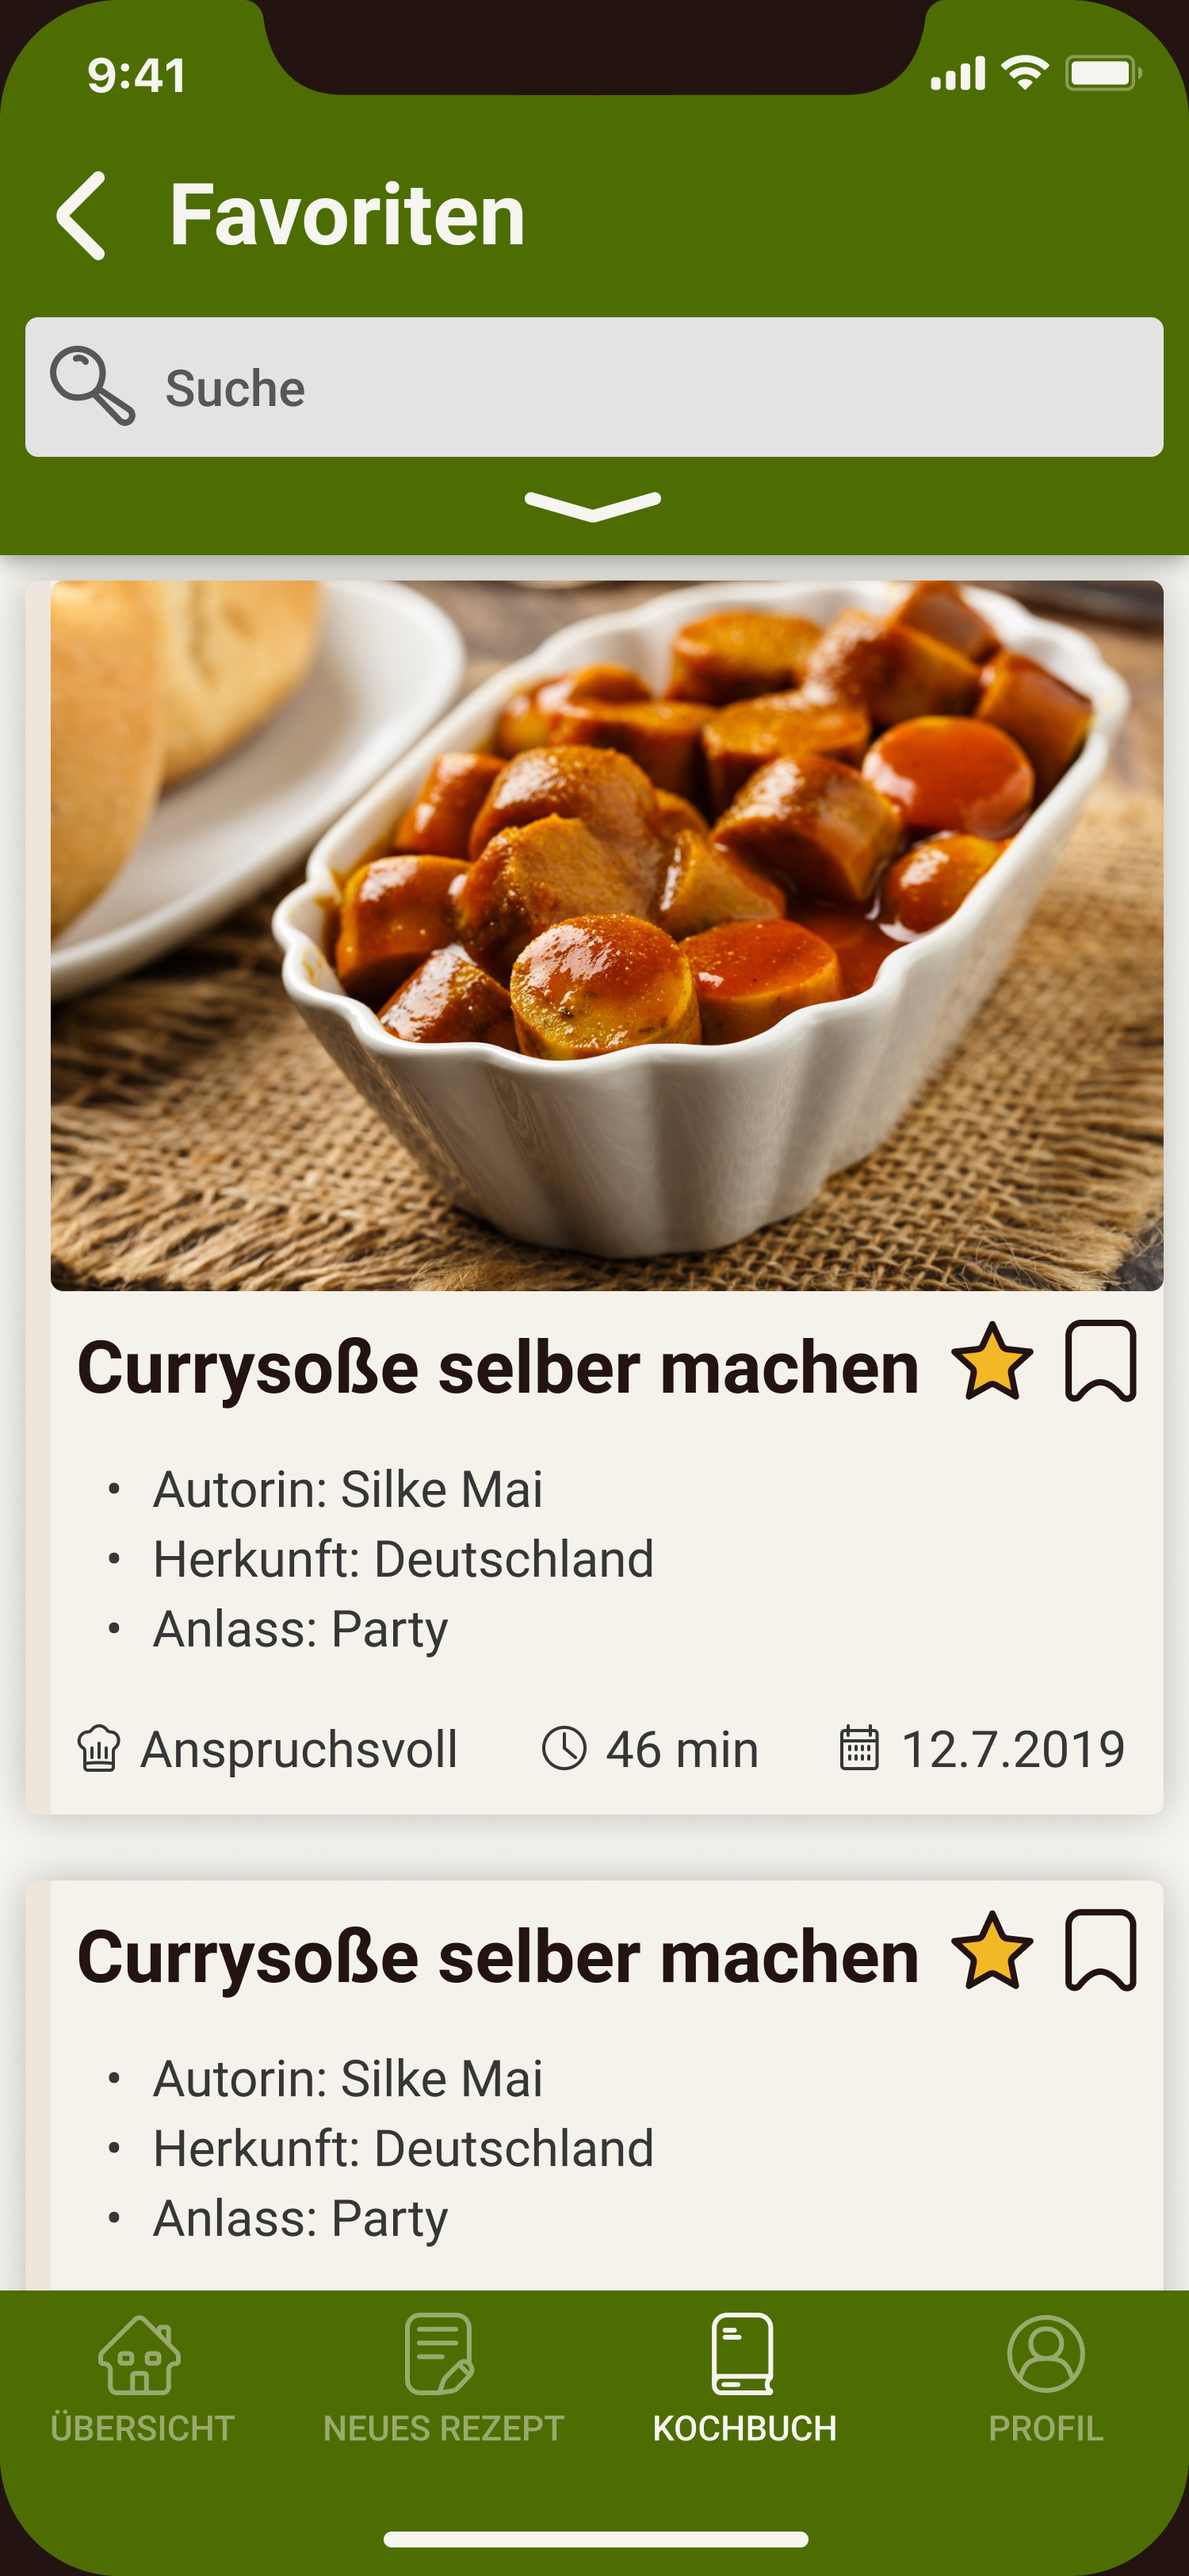
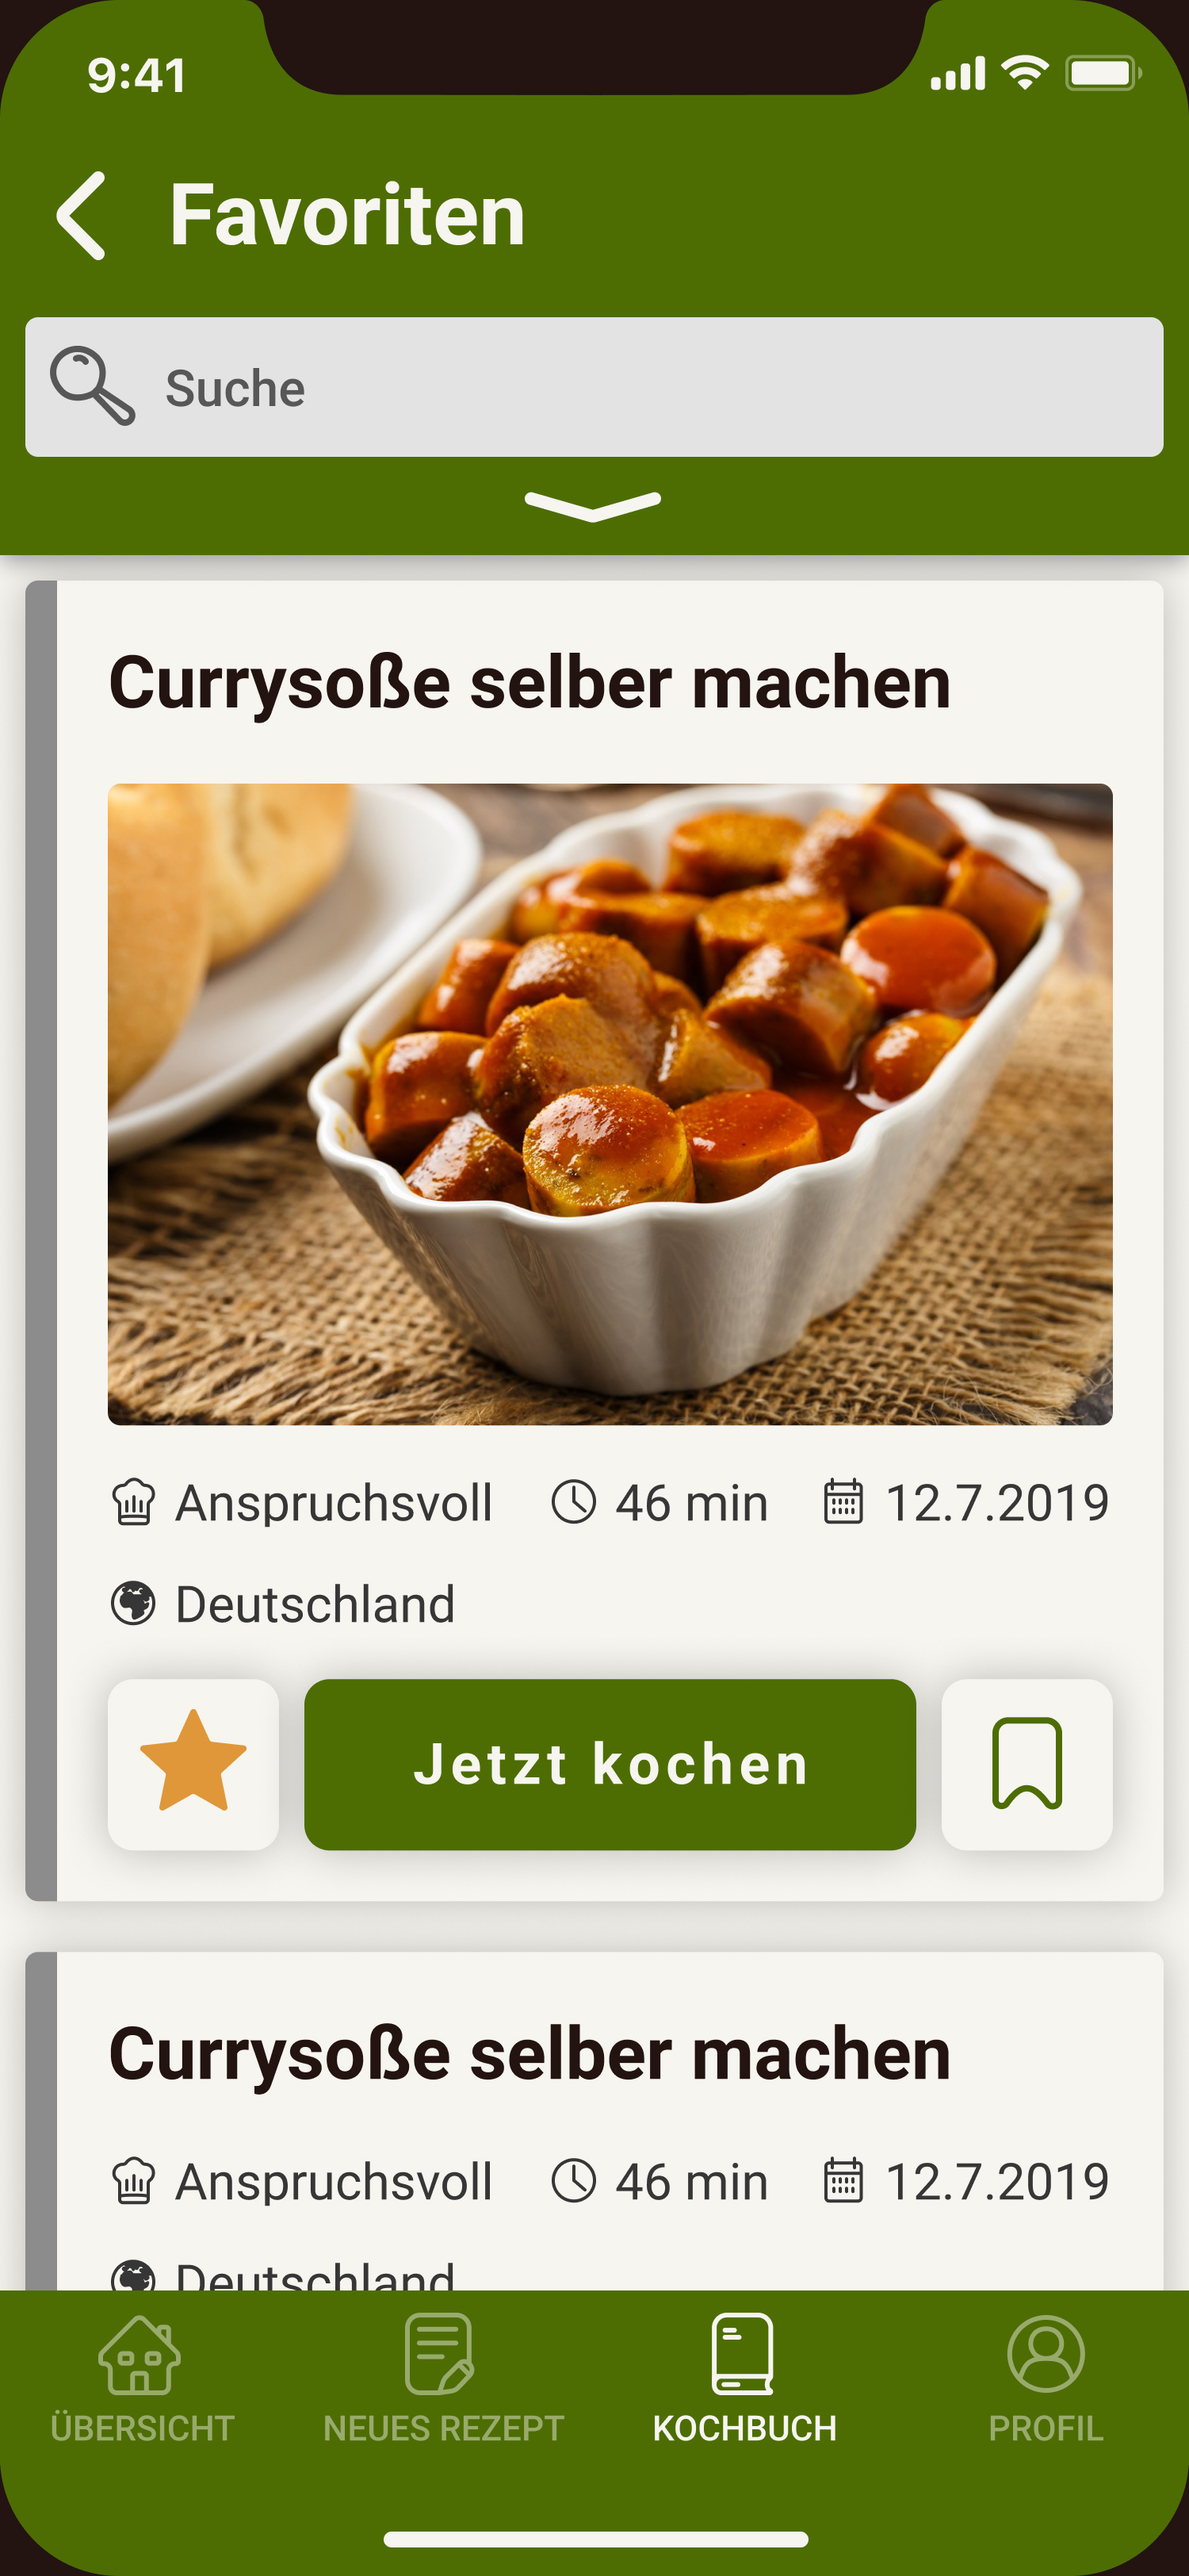
[FEATURE] Add tablet card design and refine mobile cards

diff --git a/Artefakte/Zeiterfassung/Arbeitsmatrix.md b/Artefakte/Zeiterfassung/Arbeitsmatrix.md
@@ -147,9 +147,9 @@
 | 22       | Interface Design                    | MockUps                                           | [TASK]          | Tablet Card design                                               | 12.10.21        | 12.10.21            |                 | 3,50            |
 | 22       | Interface Design                    | MockUps                                           | [TASK]          | Refinement und neue Todos                                        | 12.10.21        | 12.10.21            |                 | 2,75            |
 |          |                                     |                                                   |                 |                                                                  |                 |                     |                 |                 |
+| 22       | Interface Design                    | MockUps                                           | [TASK]          | Mobile and Tablet Card design                                    | 20.10.21        | 12.10.21            |                 | 5,75            |
 |          |                                     |                                                   |                 |                                                                  |                 |                     |                 |                 |
-|          |                                     |                                                   |                 |                                                                  |                 |                     |                 |                 |
-|          | Stunden insgesamt                   | 313                                               | Stunden Seminar | 55                                                               | Stunden Projekt | 258                 |                 |                 |
-|          |                                     |                                                   | Budget:         | 80                                                               | Budget:         | 57                  |                 |                 |
+|          | Stunden insgesamt                   | 318,75                                            | Stunden Seminar | 55                                                               | Stunden Projekt | 263,75              |                 |                 |
+|          |                                     |                                                   | Budget:         | 80                                                               | Budget:         | 51,25               |                 |                 |
 |          | Kredits erreicht:                   | 11                                                |                 |                                                                  |                 |                     |                 |                 |
 |          | Kredits erfordert:                  | 15                                                |
